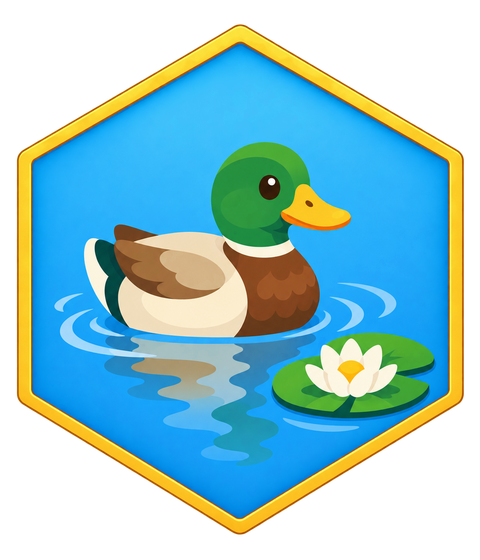
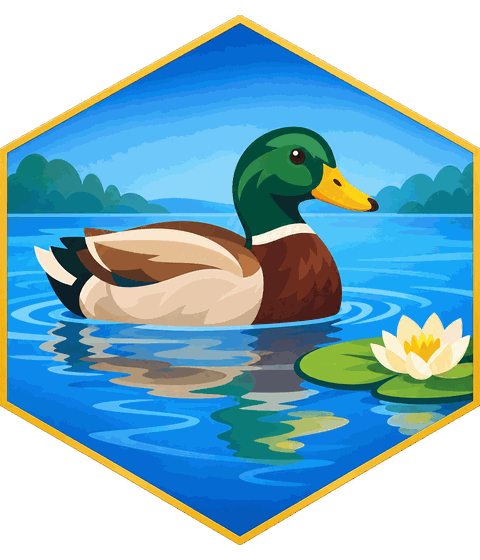
art: dix-huit insignes générés (archétypes, chapitres, l'ours, le lac)
Envoyés par le commanditaire, générés par ChatGPT à partir des prompts
du projet : les six archétypes en seconde génération, les dix insignes
de chapitre et les vignettes de deux succès. Recadrés à leur hexagone,
proportions gardées, en palette (1 Mo pour les dix-huit). Les insignes
des tampons sont marqués « lazy » : le chargeur les saute au démarrage,
ils se chargent à la demande. Le pipeline ne réécrit plus l'ours ni le lac.

Claude-Session: https://claude.ai/code/session_01XHx1sYnE2rY8XF5VjjnSNn

diff --git a/src/core/assets.js b/src/core/assets.js
@@ -9,7 +9,8 @@ export const Assets = {
     const res = await fetch('assets/img/manifest.json');
     if (!res.ok) throw new Error('Manifeste images introuvable');
     manifest = await res.json();
-    const entries = Object.entries(manifest.images);
+    // les entrées « lazy » (insignes des tampons) se chargent à la demande, au moment de tamponner : pas au démarrage
+    const entries = Object.entries(manifest.images).filter(([, meta]) => !meta.lazy);
     let done = 0;
     const load = ([key, meta]) => new Promise((resolve) => {
       const img = new Image();

diff --git a/tools/build_images.py b/tools/build_images.py
@@ -1540,13 +1540,13 @@ class Builder:
             "sans-regret": ("ground_grass_autumn", [("icon_undo", 120, 190, ICON, True)]),
             "la-source": ("water_1_spring", [("obj_rockGrey_medium1", 60, 150, 1.08)]),
             "jusqu-a-la-mer": ("ground_sand_summer", [("sea_wave_1", 120, 170, 1.4), ("sea_wave_2", 80, 200, 1.2)]),
-            "le-lac": ("water_2_summer", [("obj_lily", 90, 150, 1.62), ("obj_lily", 150, 185, 1.49)]),
+            # « le-lac » et « l-ours » : images générées à la demande du commanditaire (pack « Généré par IA »),
+            # posées à la main dans assets/img/succes/ — le pipeline ne doit plus les écraser
             "veillee": ("water_frozen", [("obj_shrine", 120, 212, 1.5)]),
             "quatre-saisons": ("ground_grass_autumn", [("icon_sun", 120, 190, ICON, True)]),
             "grande-foire": ("orchard_1_autumn", [("obj_basket", 120, 215, 1.35)]),
             "compagnie": ("ground_grass_summer", [("fauna_rabbit", 86, 205, 1.0), ("fauna_duck", 156, 205, 1.0)]),
             "menagerie": ("ground_grass_spring", [("fauna_moose", 120, 215, 1.15)]),
-            "l-ours": ("ground_stone_summer", [("fauna_bear", 120, 215, 1.15)]),
             "les-manchots": ("water_frozen", [("fauna_penguin", 98, 210, 0.95), ("fauna_penguin", 150, 200, 0.8)]),
             "promesse-tenue": ("ground_grass_summer", [("obj_banner", 120, 212, 1.8)]),
             "toute-l-ile": ("fete_summer", []), "cinquante-promesses": ("chapel_summer", []),

diff --git a/CREDITS.md b/CREDITS.md
@@ -94,8 +94,8 @@ Toutes les œuvres ci-dessous appartiennent à leurs auteurs et sont utilisées 
 - **Quicksand** — Andrew Paglinawan — licence SIL Open Font License 1.1 ([texte](https://openfontlicense.org/open-font-license-official-text/)) — [source](https://fonts.google.com/specimen/Quicksand) — [miroir utilisé](https://fonts.gstatic.com)
   - Fichiers : assets/fonts/quicksand-normal-400-700-latin-ext.woff2, assets/fonts/quicksand-normal-400-700-latin.woff2
 - **Généré par IA (ChatGPT, OpenAI)** — OpenAI — licence Conditions d'utilisation d'OpenAI (voir la page ci-dessous) — [source](https://openai.com/policies/usage-policies)
-  - Attribution : Insignes d'archétype d'île « hameaux » et « aquatique », générés à partir d'un prompt écrit pour le projet (détail dans manifest.json), à la demande du commanditaire.
-  - Fichiers : archetypes/archetype-hameaux.png, archetypes/archetype-aquatique.png, archetypes/archetype-montagneuse.png, archetypes/archetype-sauvage.png, archetypes/archetype-littorale.png, archetypes/archetype-nourriciere.png
+  - Attribution : Insignes d'archétype d'île, insignes des dix chapitres et vignettes des succès « L'ours » et « Le lac », générés à partir de prompts écrits pour le projet (docs/PROMPTS_INSIGNES.pdf), à la demande du commanditaire. Sur la carte postale, le jeu en tire une empreinte de tampon encré.
+  - Fichiers : 18
 - **Icône et écran de chargement (captures du jeu)** — Cent Saisons — licence Voir les packs ci-dessus
   - Attribution : L'icône et le fond de l'écran de chargement sont des photographies de l'île 13, jouée jusqu'au bout par le bot des tests (tools/capture_partie.js) : l'icône recadrée au carré, le fond en deux cadrages, paysage et portrait. Tout ce qu'on y voit vient des packs d'images crédités plus haut ; rien n'a été dessiné pour elles.
   - Fichiers : ui/app_icon_192.png, ui/app_icon_512.png, ui/app_icon_512_maskable.png, ui/boot_island.jpg, ui/boot_island_portrait.jpg
